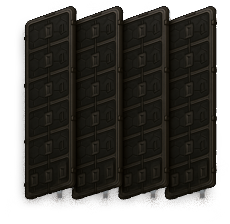
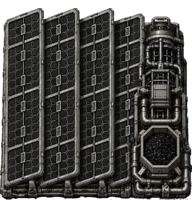
Solar panel

diff --git a/scripts/chroma-icon.py b/scripts/chroma-icon.py
@@ -97,31 +97,50 @@ def write_png(path, width, height, rows):
     )
 
 
-def remove_green_hsv(r, g, b, alpha):
+def remove_chroma_hsv(r, g, b, alpha, key):
     hue, saturation, value = rgb_to_hsv(r / 255, g / 255, b / 255)
-    is_green_hue = 0.20 <= hue <= 0.46
-    is_green_dominant = g > r * 1.18 and g > b * 1.18
 
-    if not (is_green_hue and is_green_dominant and saturation > 0.20 and value > 0.20):
+    if key == "green":
+        is_key_hue = 0.20 <= hue <= 0.46
+        is_key_dominant = g > r * 1.18 and g > b * 1.18
+        strong_key = g > r * 1.75 and g > b * 1.75
+    elif key == "magenta":
+        is_key_hue = 0.60 <= hue <= 0.98
+        is_key_dominant = r > g * 1.01 and b > g * 1.01
+        strong_key = r > g * 1.20 and b > g * 1.20
+    else:
+        raise ValueError(f"Unsupported chroma key {key}")
+
+    min_saturation = 0.05 if key == "magenta" else 0.20
+    min_value = 0.12 if key == "magenta" else 0.20
+    if not (is_key_hue and is_key_dominant and saturation > min_saturation and value > min_value):
         return r, g, b, alpha
 
     strength = min(
         1.0,
-        max(0.0, (saturation - 0.20) / 0.38)
-        * max(0.0, (value - 0.20) / 0.35),
+        max(0.0, (saturation - min_saturation) / 0.24)
+        * max(0.0, (value - min_value) / 0.22),
     )
-    if g > r * 1.75 and g > b * 1.75:
+    if strong_key:
         strength = 1.0
+
+    if key == "magenta" and strength > 0.08:
+        return 0, 0, 0, 0
 
     alpha = int(round(alpha * (1.0 - strength)))
     if alpha < 32:
         return 0, 0, 0, 0
 
-    g = min(g, int((r + b) * 0.55))
+    if key == "green":
+        g = min(g, int((r + b) * 0.55))
+    elif key == "magenta":
+        spill_limit = max(g, int(g * 1.25))
+        r = min(r, spill_limit)
+        b = min(b, spill_limit)
     return r, g, b, alpha
 
 
-def key_image(input_path, alpha_path):
+def key_image(input_path, alpha_path, key):
     width, height, channels, rows = read_png(input_path)
     output_rows = []
     for row in rows:
@@ -129,7 +148,7 @@ def key_image(input_path, alpha_path):
         for offset in range(0, len(row), channels):
             r, g, b = row[offset], row[offset + 1], row[offset + 2]
             alpha = row[offset + 3] if channels == 4 else 255
-            output.extend(remove_green_hsv(r, g, b, alpha))
+            output.extend(remove_chroma_hsv(r, g, b, alpha, key))
         output_rows.append(output)
     write_png(alpha_path, width, height, output_rows)
 
@@ -179,6 +198,7 @@ def main():
     parser.add_argument("input", type=Path)
     parser.add_argument("output", type=Path)
     parser.add_argument("--size", type=int, default=64)
+    parser.add_argument("--key", choices=("green", "magenta"), default="green")
     parser.add_argument(
         "--keep-intermediate",
         action="store_true",
@@ -188,7 +208,7 @@ def main():
 
     args.output.parent.mkdir(parents=True, exist_ok=True)
     alpha_path = args.output.with_name(args.output.stem + "_alpha_hsv.png")
-    key_image(args.input, alpha_path)
+    key_image(args.input, alpha_path, args.key)
     trimmed_path = trim_and_resize(alpha_path, args.output, args.size)
 
     if not args.keep_intermediate: